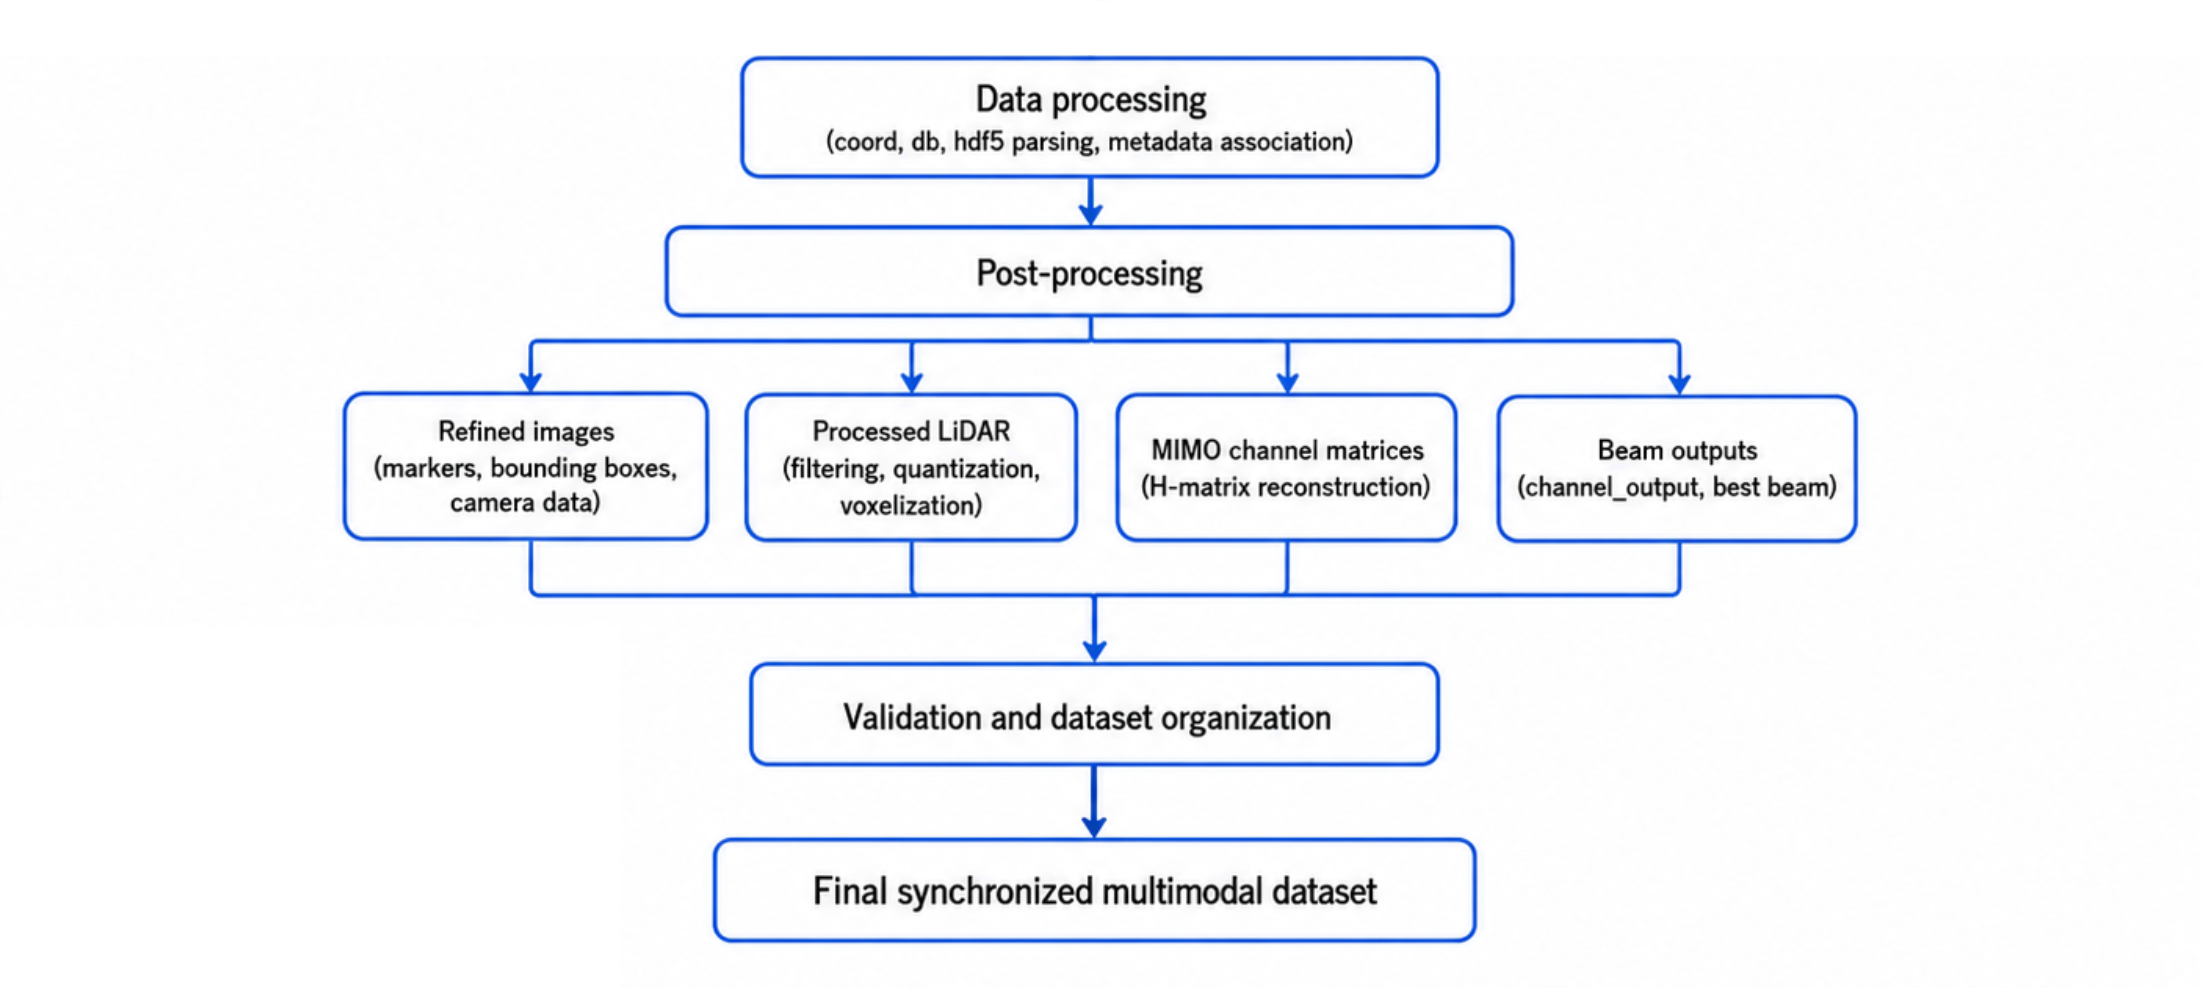
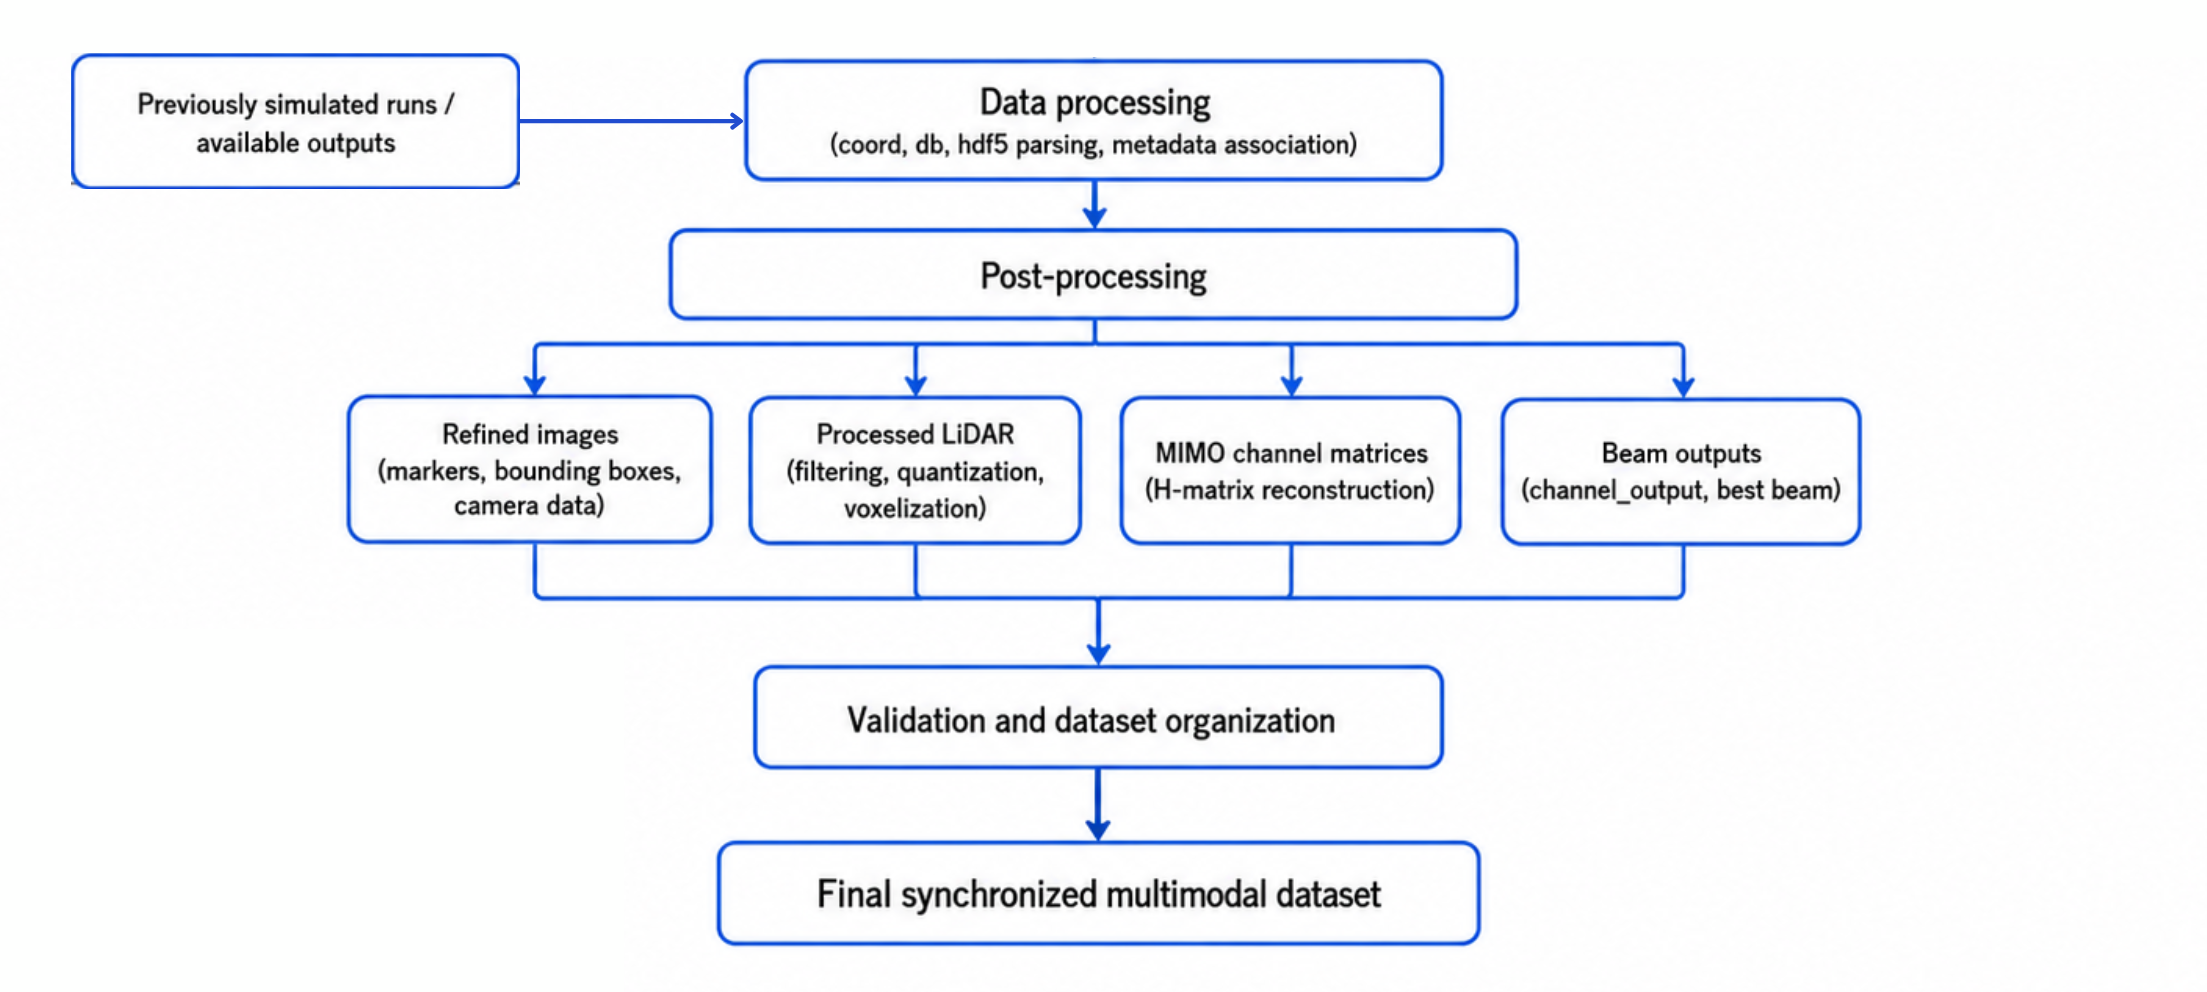
correction of quick setup figure

diff --git a/README.md b/README.md
@@ -50,7 +50,7 @@ Run this script for
 ```bash
 source ./src/scripts/quick_start_setup.sh
 ```
-Execute pipeline from image above. Generates data structures, generates images from BS and UEs POV, lidar data from UEs, post-processes lidar for generating lidar voxels and images to produce bounding boxes and marked points at receivers, also post-process rays data for produce beams data.
+Execute pipeline from image above. Generates data structures, images from BS and UEs POV, lidar data from UEs, post-processes lidar for generating lidar voxels and images to produce bounding boxes and marked points at receivers, also post-process rays data for produce beams data.
 ```bash
 uv run raymobtime
 ```
